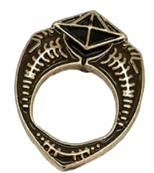
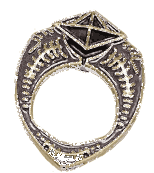
Ajustes visuales de horrocruxes e imágenes actualizadas

Changed region(s): [[0.0779, 0.0578, 0.961, 1.0], [0.5714, 0.9249, 0.5974, 0.9538]]

diff --git a/src/components/marinero/MarineroTheme.tsx b/src/components/marinero/MarineroTheme.tsx
@@ -73,21 +73,21 @@ function ClinClinesChart() {
 
   return (
     <div ref={ref} className="w-full">
-      <div className="flex items-end justify-around gap-3 h-52 mb-4">
+      <div className="flex items-end justify-around gap-2 sm:gap-3 h-44 sm:h-52 mb-4">
         {clinClineData.map((d, i) => (
-          <div key={d.label} className="flex flex-col items-center flex-1 h-full justify-end gap-2">
+          <div key={d.label} className="flex flex-col items-center flex-1 h-full justify-end gap-1 sm:gap-2 min-w-0">
             <motion.span
               initial={{ opacity: 0 }}
               animate={inView ? { opacity: 1 } : {}}
               transition={{ delay: 0.3 + i * 0.15 }}
-              className="text-white font-bold text-lg"
+              className="text-white font-bold text-sm sm:text-lg"
             >
               {inView ? d.value : ''}
             </motion.span>
-            <div className="w-full flex items-end justify-center" style={{ height: '180px' }}>
+            <div className="w-full flex items-end justify-center flex-1">
               <motion.div
                 initial={{ height: 0 }}
-                animate={inView ? { height: `${(d.value / maxClinCline) * 170}px` } : {}}
+                animate={inView ? { height: `${(d.value / maxClinCline) * 100}%` } : {}}
                 transition={{
                   duration: 0.9,
                   delay: 0.2 + i * 0.15,
@@ -96,7 +96,7 @@ function ClinClinesChart() {
                 style={{ backgroundColor: d.color, borderRadius: '8px 8px 0 0', width: '100%' }}
               />
             </div>
-            <span className="text-sky-200 text-xs text-center leading-tight mt-1">{d.label}</span>
+            <span className="text-sky-200 text-[10px] sm:text-xs text-center leading-tight mt-1">{d.label}</span>
           </div>
         ))}
       </div>
@@ -415,7 +415,7 @@ export default function MarineroTheme() {
             whileInView={{ opacity: 1, y: 0 }}
             viewport={{ once: true }}
             transition={{ duration: 0.5 }}
-            className="bg-sky-950/70 border border-sky-700/30 rounded-2xl p-6 backdrop-blur-sm mb-10"
+            className="bg-sky-950/70 border border-sky-700/30 rounded-2xl p-4 sm:p-6 backdrop-blur-sm mb-10 overflow-hidden"
           >
             <ClinClinesChart />
           </motion.div>

diff --git a/src/components/minigame/HorcruxTracker.tsx b/src/components/minigame/HorcruxTracker.tsx
@@ -31,18 +31,15 @@ function HorcruxModal({ horcrux, secondsGained, onClose }: HorcruxModalProps) {
           exit={{ scale: 0.7, opacity: 0, y: 40 }}
           transition={{ type: 'spring', stiffness: 260, damping: 20 }}
         >
-          <motion.div
-            className="text-7xl mb-4"
-            animate={{ rotate: [0, -8, 8, -8, 0], scale: [1, 1.2, 1] }}
-            transition={{ duration: 0.8, delay: 0.2 }}
-          >
-            {horcrux.emoji}
-          </motion.div>
-          <img
-            src={horcrux.badgeImage}
-            alt={horcrux.name}
-            className="w-20 h-20 object-contain mx-auto mb-4 badge-unlocked"
-          />
+          <div className="relative inline-block mb-4">
+            <motion.img
+              src={horcrux.badgeImage}
+              alt={horcrux.name}
+              className="w-36 h-36 object-contain mx-auto badge-unlocked"
+              animate={{ scale: [0.8, 1] }}
+              transition={{ duration: 0.5, delay: 0.2 }}
+            />
+          </div>
           <h3 className="font-cinzel text-xl font-bold text-gold mb-2">
             ✨ ¡Horrocrux recuperado!
           </h3>
